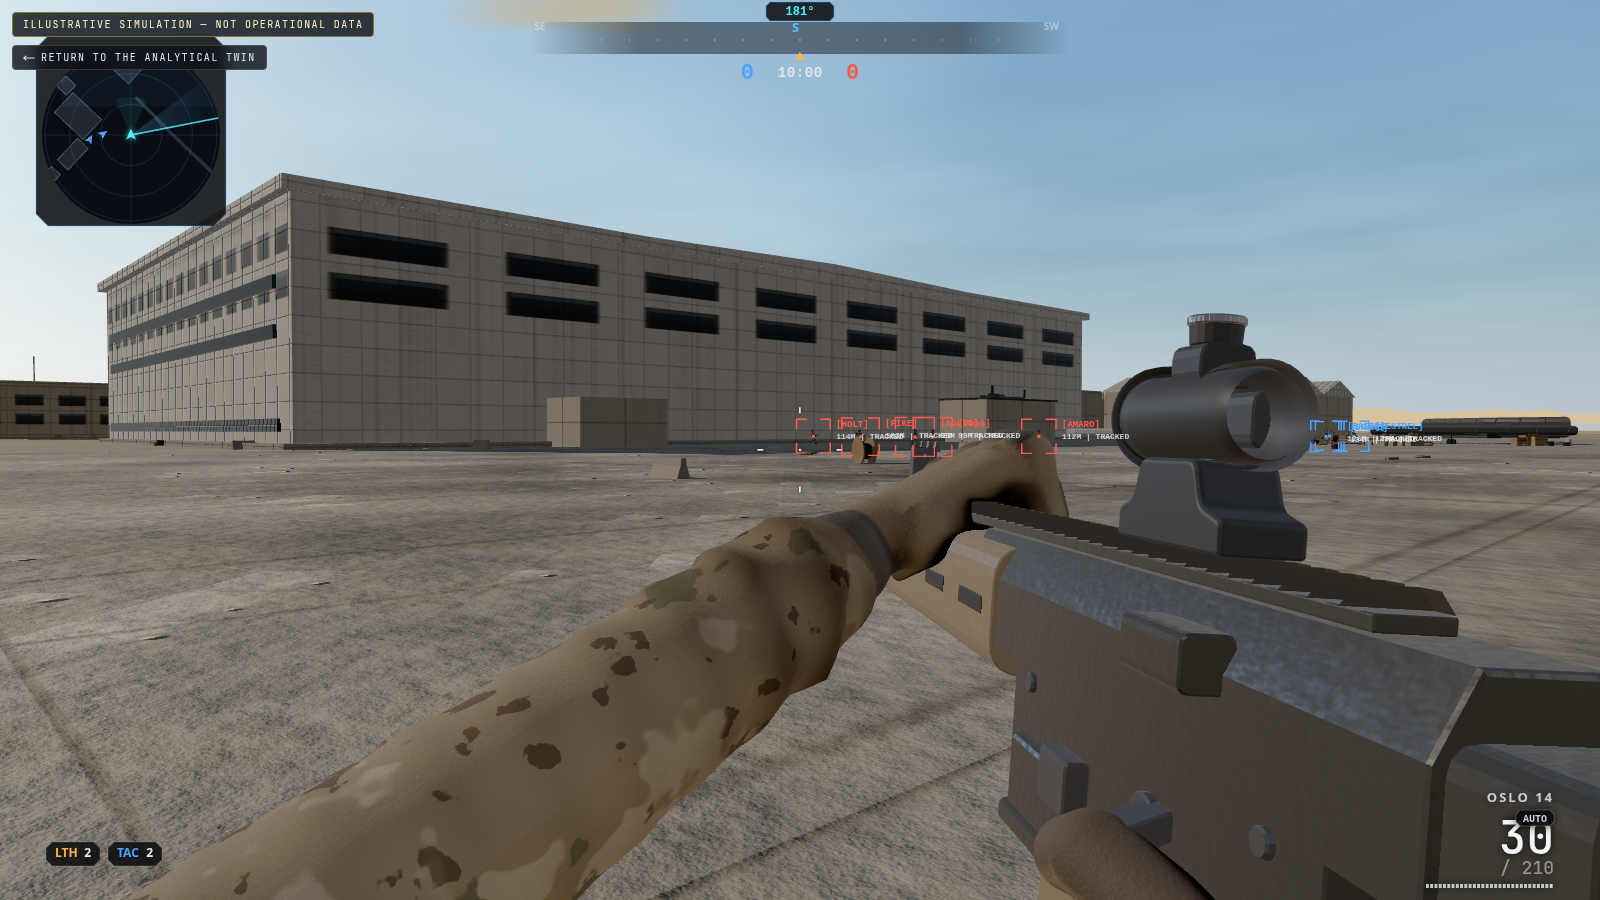
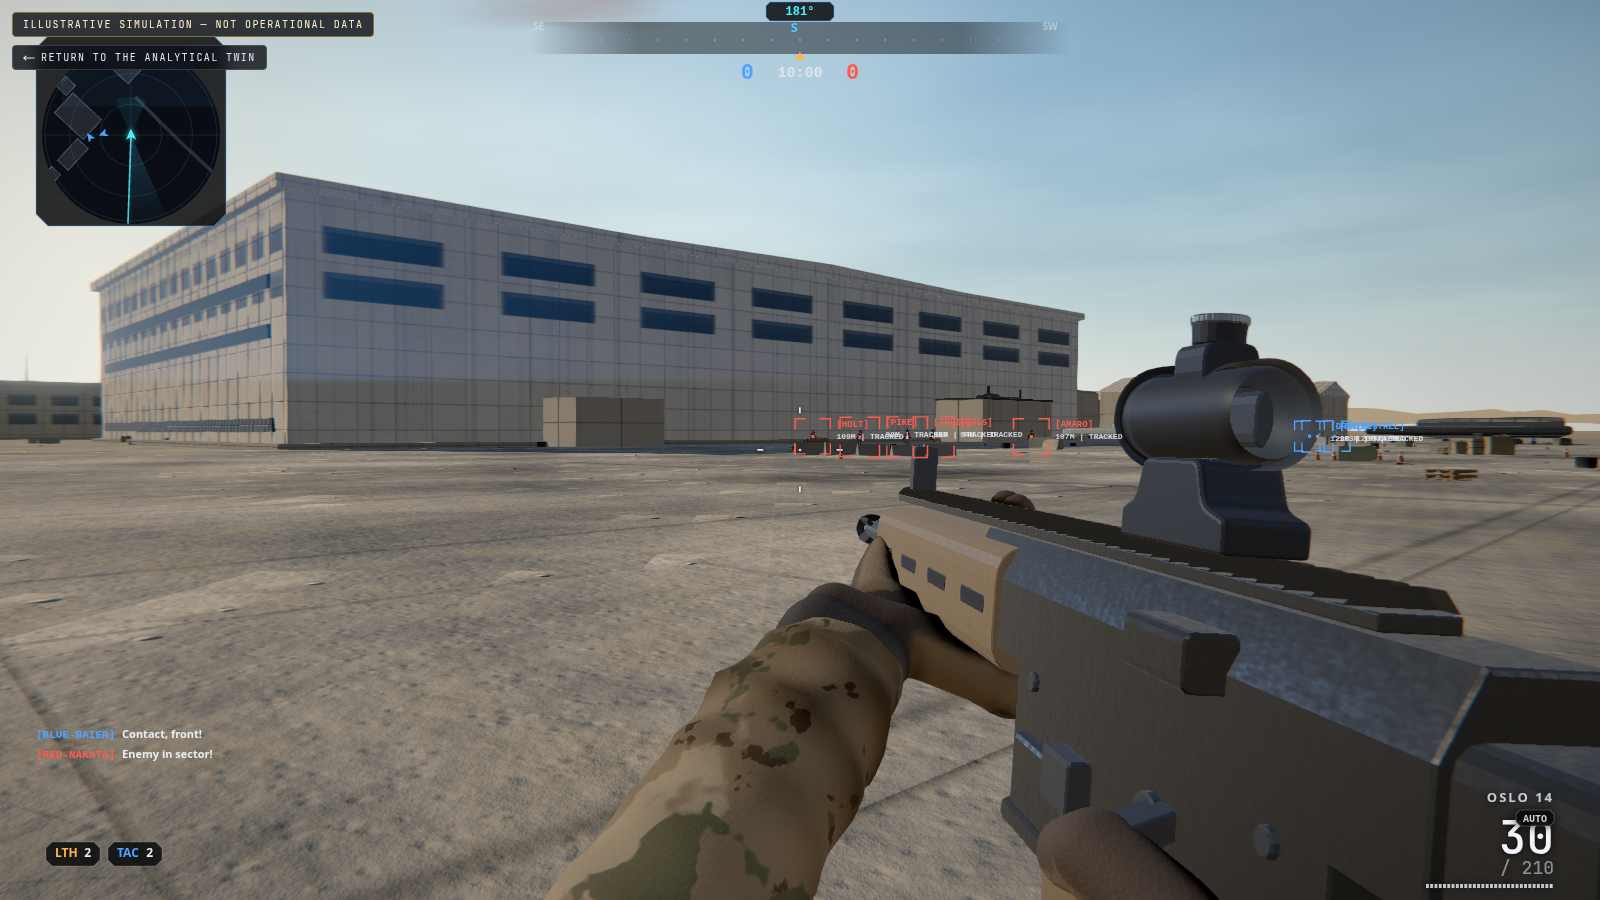
Recapture the Blacksite README screenshots with the underhand hold
gameplay.png, aim.png and character.png are recaptured from this tree at
1600x900 on the top quality tier, from the same headings as before. The
gameplay caption now says the support hand is under the handguard.

diff --git a/README.md b/README.md
@@ -77,7 +77,7 @@ The boot screen. Any key opens the menu.
 
 The menu: mode, opposition, difficulty, loadout, and a way back to the twin.
 
-![First-person match on the apron: a carbine held in two gloved hands, the support hand over the handguard, hangar walls behind, and the combat HUD (compass, health, ammunition, minimap).](docs/screenshots/gameplay.png)
+![First-person match on the apron: a carbine held in two gloved hands, the support hand under the handguard, hangar walls behind, and the combat HUD (compass, health, ammunition, minimap).](docs/screenshots/gameplay.png)
 
 In a match. The rifle, the HUD, and the other soldiers belong to the
 simulation, not to the analytical model.
